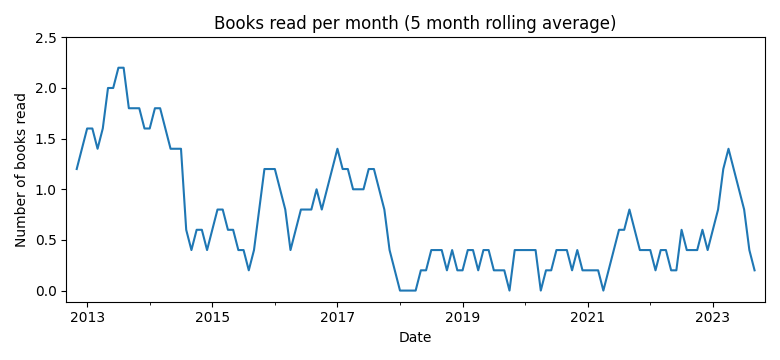
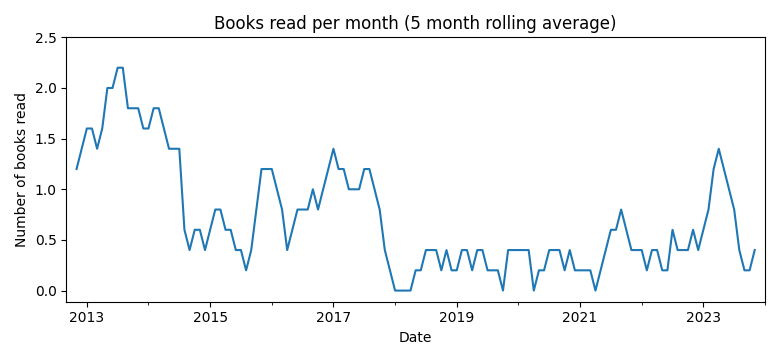
stop shopping

diff --git a/README.md b/README.md
@@ -6,13 +6,16 @@ The most significant events impacting the number of books I read are
 * The birth of my daughers in 2018/01 and 2019/08
 
 ### Statistics
-Total number of books read: 97  
-Books per month: 0.72 (2012/9 to 2023/11)
+Total number of books read: 98  
+Books per month: 0.72 (2012/9 to 2024/1)
 
 ![Books recorded by year](book_recorded.png)
 ![Books read per month](book_read.png)
 
 ### List of books
+*The day the world stops shopping*, J.B. Mackinnon  
+Finished: 2024.01.25
+
 *Snow Crash*, Neal Stephenson  
 Finished: 2023.11.13
 
